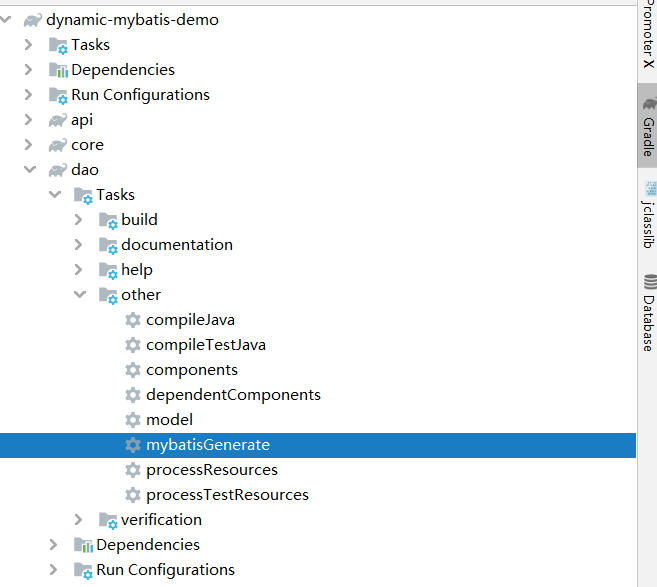
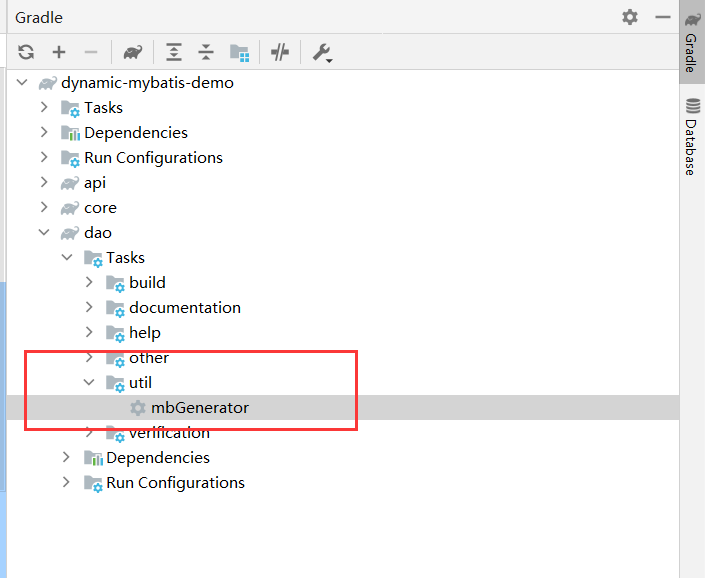
feat: upduate article

Changed region(s): [[0.0, 0.0, 0.9741, 1.0], [0.8828, 0.0, 1.0, 0.436], [0.9741, 0.4671, 1.0, 0.5917]]

diff --git a/posts/mybats-dynamic-sql-integration/index.html b/posts/mybats-dynamic-sql-integration/index.html
@@ -129,33 +129,25 @@
 </ul>
 <p>由 Mybatis 生成的 Mapper、Entity 都会存放在该 Module 下，并且该 Dao 模块内会实现 Core 模块内的 Repository，所以它会依赖 Core 模块</p>
 <h3 id="将-mybatis-generator-集成进-gradle-task">将 Mybatis Generator 集成进 Gradle Task</h3>
-<p>由于 Mybatis generator 目前还没有官方的 Gradle 插件，所以我就将这部分生成的逻辑封装成了一个 Gradle task。</p>
-<p>完整配置可参考 <a href="https://github.com/vran-dev/mybatis-dynamic-sql-integration-demo/blob/main/dao/build.gradle">dao/build.gradle</a></p>
-<div class="highlight"><pre tabindex="0" style="background-color:#fff;-moz-tab-size:4;-o-tab-size:4;tab-size:4"><code class="language-groovy" data-lang="groovy"><span style="color:#a90d91">import</span> <span style="color:#000">org.mybatis.generator.api.MyBatisGenerator</span>
-<span style="color:#a90d91">import</span> <span style="color:#000">org.mybatis.generator.config.xml.ConfigurationParser</span>
-<span style="color:#a90d91">import</span> <span style="color:#000">org.mybatis.generator.internal.DefaultShellCallback</span>
-
-<span style="color:#000">buildscript</span> <span style="color:#000">{</span>
-    <span style="color:#000">repositories</span> <span style="color:#000">{</span>
-        <span style="color:#000">mavenCentral</span><span style="color:#000">()</span>
-    <span style="color:#000">}</span>
-    <span style="color:#177500">// 配置 gradle plugin 或 task 需要的依赖
-</span><span style="color:#177500"></span>    <span style="color:#000">dependencies</span> <span style="color:#000">{</span>
-        <span style="color:#000">classpath</span> <span style="color:#000">group:</span> <span style="color:#c41a16">&#39;org.mybatis.generator&#39;</span><span style="color:#000">,</span> <span style="color:#000">name:</span> <span style="color:#c41a16">&#39;mybatis-generator-core&#39;</span><span style="color:#000">,</span> <span style="color:#000">version:</span> <span style="color:#c41a16">&#39;1.4.0&#39;</span>
-        <span style="color:#000">classpath</span> <span style="color:#000">group:</span> <span style="color:#c41a16">&#39;mysql&#39;</span><span style="color:#000">,</span> <span style="color:#000">name:</span> <span style="color:#c41a16">&#39;mysql-connector-java&#39;</span><span style="color:#000">,</span> <span style="color:#000">version:</span> <span style="color:#c41a16">&#39;8.0.25&#39;</span>
-    <span style="color:#000">}</span>
+<p>Mybatis Generator 目前没有官方的 Gradle Plugin 可以集成，但是万能的开源社区却为我们提供了这样的一个 插件</p>
+<blockquote>
+<p>Mybatis-Generator-Plugin (<a href="https://github.com/kimichen13/mybatis-generator-plugin">https://github.com/kimichen13/mybatis-generator-plugin</a>)</p>
+</blockquote>
+<p>集成方式也很简单，完整配置可参考 <a href="https://github.com/vran-dev/mybatis-dynamic-sql-integration-demo/blob/main/dao/build.gradle">dao/build.gradle</a></p>
+<div class="highlight"><pre tabindex="0" style="background-color:#fff;-moz-tab-size:4;-o-tab-size:4;tab-size:4"><code class="language-groovy" data-lang="groovy"><span style="color:#000">plugins</span> <span style="color:#000">{</span>
+    <span style="color:#000">id</span> <span style="color:#c41a16">&#39;java-library&#39;</span>
+    <span style="color:#000">id</span> <span style="color:#c41a16">&#34;com.thinkimi.gradle.MybatisGenerator&#34;</span> <span style="color:#000">version</span> <span style="color:#c41a16">&#34;2.3&#34;</span>
 <span style="color:#000">}</span>
 
-<span style="color:#000">task</span> <span style="color:#000">mybatisGenerate</span> <span style="color:#000">{</span>
-    <span style="color:#a90d91">def</span> <span style="color:#000">warnings</span> <span style="color:#000">=</span> <span style="color:#a90d91">new</span> <span style="color:#000">ArrayList</span><span style="color:#000">&lt;</span><span style="color:#000">String</span><span style="color:#000">&gt;()</span>
-    <span style="color:#a90d91">def</span> <span style="color:#000">overwrite</span> <span style="color:#000">=</span> <span style="color:#a90d91">true</span>
-    <span style="color:#a90d91">def</span> <span style="color:#000">configurationFile</span> <span style="color:#000">=</span> <span style="color:#000">projectDir</span><span style="color:#000">.</span><span style="color:#836c28">getAbsolutePath</span><span style="color:#000">()</span> <span style="color:#000">+</span> <span style="color:#c41a16">&#39;/src/main/resources/generatorConfiguration.xml&#39;</span>
-    <span style="color:#a90d91">def</span> <span style="color:#000">configFile</span> <span style="color:#000">=</span> <span style="color:#a90d91">new</span> <span style="color:#000">File</span><span style="color:#000">(</span><span style="color:#000">configurationFile</span><span style="color:#000">)</span>
-    <span style="color:#a90d91">def</span> <span style="color:#000">cp</span> <span style="color:#000">=</span> <span style="color:#a90d91">new</span> <span style="color:#000">ConfigurationParser</span><span style="color:#000">(</span><span style="color:#000">warnings</span><span style="color:#000">)</span>
-    <span style="color:#a90d91">def</span> <span style="color:#000">config</span> <span style="color:#000">=</span> <span style="color:#000">cp</span><span style="color:#000">.</span><span style="color:#836c28">parseConfiguration</span><span style="color:#000">(</span><span style="color:#000">configFile</span><span style="color:#000">)</span>
-    <span style="color:#a90d91">def</span> <span style="color:#000">callback</span> <span style="color:#000">=</span> <span style="color:#a90d91">new</span> <span style="color:#000">DefaultShellCallback</span><span style="color:#000">(</span><span style="color:#000">overwrite</span><span style="color:#000">)</span>
-    <span style="color:#a90d91">def</span> <span style="color:#000">myBatisGenerator</span> <span style="color:#000">=</span> <span style="color:#a90d91">new</span> <span style="color:#000">MyBatisGenerator</span><span style="color:#000">(</span><span style="color:#000">config</span><span style="color:#000">,</span> <span style="color:#000">callback</span><span style="color:#000">,</span> <span style="color:#000">warnings</span><span style="color:#000">)</span>
-    <span style="color:#000">myBatisGenerator</span><span style="color:#000">.</span><span style="color:#836c28">generate</span><span style="color:#000">(</span><span style="color:#a90d91">null</span><span style="color:#000">)</span>
+<span style="color:#000">mybatisGenerator</span> <span style="color:#000">{</span>
+    <span style="color:#000">verbose</span> <span style="color:#000">=</span> <span style="color:#a90d91">true</span>
+    <span style="color:#000">configFile</span> <span style="color:#000">=</span> <span style="color:#c41a16">&#39;src/main/resources/generatorConfiguration.xml&#39;</span>
+
+    <span style="color:#000">dependencies</span> <span style="color:#000">{</span>
+        <span style="color:#000">mybatisGenerator</span>  <span style="color:#000">group:</span> <span style="color:#c41a16">&#39;org.mybatis.generator&#39;</span><span style="color:#000">,</span> <span style="color:#000">name:</span> <span style="color:#c41a16">&#39;mybatis-generator-core&#39;</span><span style="color:#000">,</span> <span style="color:#000">version:</span> <span style="color:#c41a16">&#39;1.4.0&#39;</span>
+        <span style="color:#000">mybatisGenerator</span> <span style="color:#000">group:</span> <span style="color:#c41a16">&#39;mysql&#39;</span><span style="color:#000">,</span> <span style="color:#000">name:</span> <span style="color:#c41a16">&#39;mysql-connector-java&#39;</span><span style="color:#000">,</span> <span style="color:#000">version:</span> <span style="color:#c41a16">&#39;8.0.25&#39;</span>
+        <span style="color:#177500">// you can add jdbc driver here
+</span><span style="color:#177500"></span>    <span style="color:#000">}</span>
 <span style="color:#000">}</span>
 </code></pre></div><p>代码的生成规则都放在 <code>generatorConfiguration.xml</code> 配置文件中（关于 Mybatis generator 的更多配置可以参考<a href="https://mybatis.org/generator/configreference/xmlconfig.html">官方文档</a> ）。</p>
 <p>一定记得在 context 标签中配置  <code>targetRuntime=&quot;MyBatis3DynamicSql&quot;</code> ，这样才能生成 mybatis dynamic sql 框架需要的代码</p>
@@ -198,7 +190,7 @@
     <span style="color:#000">&lt;/context&gt;</span>
 
 <span style="color:#000">&lt;/generatorConfiguration&gt;</span>
-</code></pre></div><p>这样配置完成以后只需要执行 <code>mybatisGenerator</code> 这个 task 就可以生成代码了，如果你使用的是 Intellij IDEA 的话，可以在右侧工具栏找到该 task</p>
+</code></pre></div><p>这样配置完成以后只需要执行 <code>mbGenerator</code> 这个 task 就可以生成代码了，如果你使用的是 Intellij IDEA 的话，可以在右侧工具栏找到该 task</p>
 <p><img src="img/generator-task.png" alt="Untitled"></p>
 <p>执行玩 task 以后你就能在项目里看见你生成的代码了</p>
 <p><img src="img/generator-code.png" alt="Untitled"></p>
